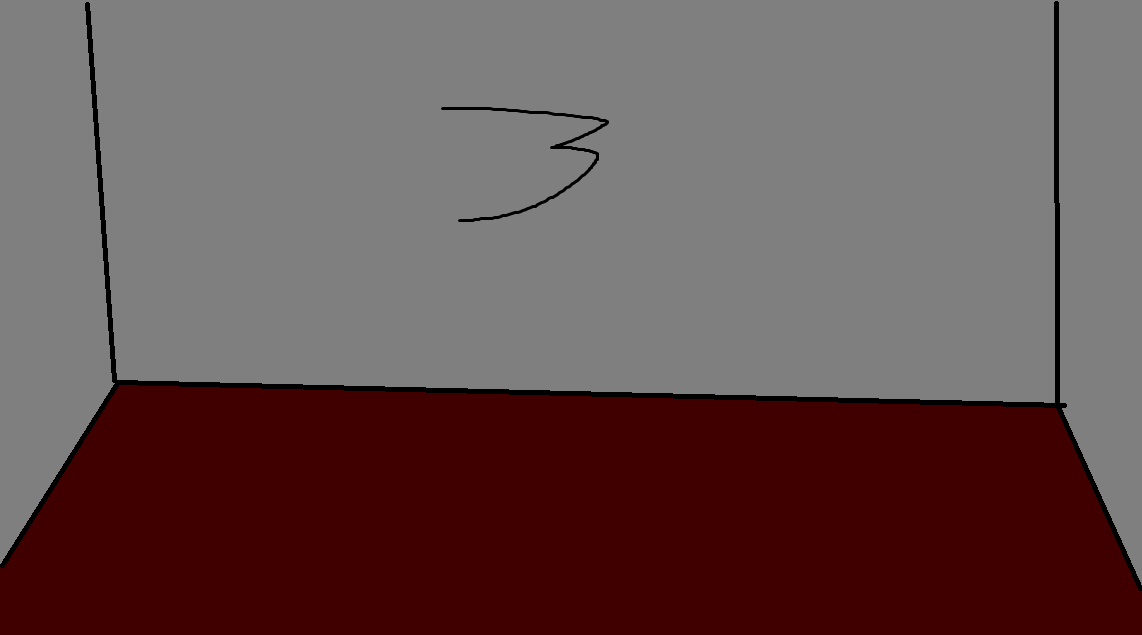
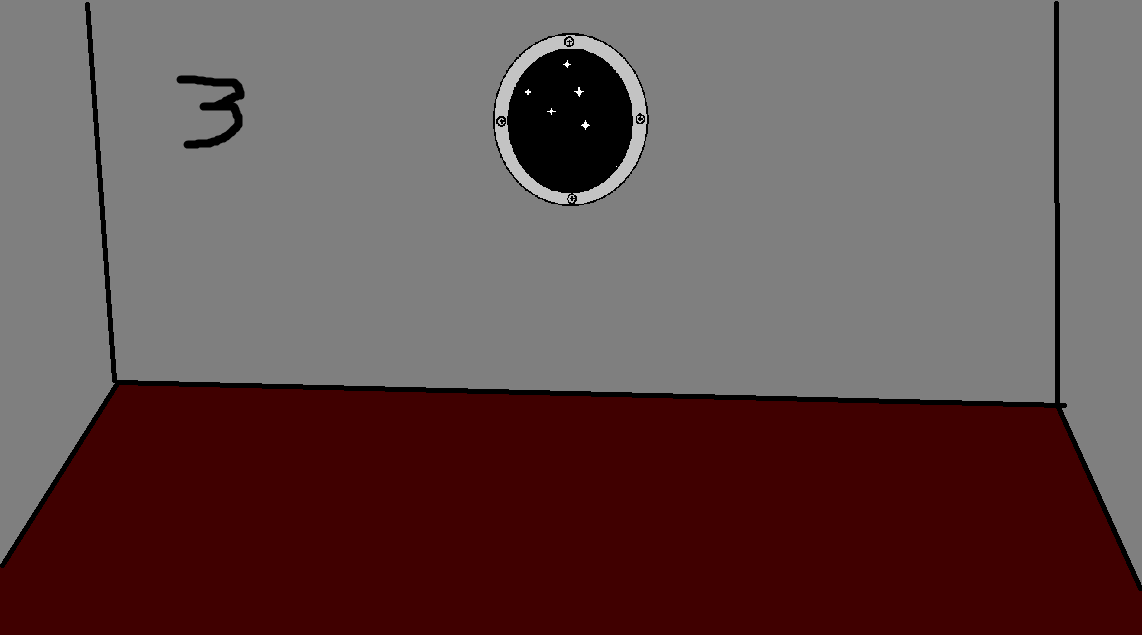
Added viewports, Invis buttons only clickable on correct wall
Added viewports to wall png files
button action listeners now have if statements so they don't get clicked while viewing other walls.

Changed region(s): [[0.3984, 0.0299, 0.5823, 0.3291], [0.1532, 0.1197, 0.2145, 0.2394], [0.3984, 0.3291, 0.4597, 0.3591]]

diff --git a/src/CIS350Project/ERoom.java b/src/CIS350Project/ERoom.java
@@ -28,7 +28,7 @@ public class ERoom extends JFrame implements ActionListener{
     private JMenuItem open;
     private JMenuItem exit;
 
-    private JButton turnRight, turnLeft, askForHint, pickNote, coldOne;
+    private JButton turnRight, turnLeft, askForHint, pickNote, coldOne, viewScreen, exitScreen;
 
     public static void main(String[] args) {
         ERoom gui = new ERoom();
@@ -79,6 +79,7 @@ public class ERoom extends JFrame implements ActionListener{
         panel.add(turnLeft);
         turnLeft.addActionListener(this);
 
+        //For wall one//
         pickNote = new JButton(".");
         pickNote.setBounds(405,325,60,60);
         panel.add(pickNote);
@@ -90,6 +91,19 @@ public class ERoom extends JFrame implements ActionListener{
         panel.add(coldOne);
         coldOne.setOpaque(false);
         coldOne.addActionListener(this);
+
+        viewScreen = new JButton("x");
+        viewScreen.setBounds(275, 120, 100, 100);
+        panel.add(viewScreen);
+        viewScreen.setOpaque(false);
+        viewScreen.addActionListener(this);
+
+        //for screen close up//
+        exitScreen = new JButton("x");
+        exitScreen.setBounds(1120, 10, 30, 30);
+        panel.add(exitScreen);
+        exitScreen.setOpaque(false);
+        exitScreen.addActionListener(this);
     }
 
 
@@ -129,16 +143,34 @@ public class ERoom extends JFrame implements ActionListener{
                 wall.redraw();
             }
             if (event.getSource() == pickNote) {
-                wall.setNote();
-                wall.redraw();
-                inv.setNoteInv();
-                inv.redrawInv();
+                if(wall.getVisWall()%4==1) {
+                    wall.setNote();
+                    wall.redraw();
+                    inv.setNoteInv();
+                    inv.redrawInv();
+                }
             }
             if (event.getSource() == coldOne) {
-                wall.setOne();
-                wall.redraw();
-                inv.setColdOneInv();
-                inv.redrawInv();
+                if(wall.getVisWall()%4==1) {
+                    wall.setOne();
+                    wall.redraw();
+                    inv.setColdOneInv();
+                    inv.redrawInv();
+                }
+            }
+
+            if (event.getSource() == viewScreen) {
+                if(wall.getVisWall()%4==1) {
+                    wall.setVisWall(-1);
+                    wall.redraw();
+                }
+            }
+
+            if (event.getSource() == exitScreen) {
+                if(wall.getVisWall()==-1) {
+                    wall.setVisWall(1);
+                    wall.redraw();
+                }
             }
         }
 //    }

diff --git a/src/CIS350Project/Wall.java b/src/CIS350Project/Wall.java
@@ -44,7 +44,10 @@ public class Wall extends JPanel {
 
         setBackground(Color.GRAY);
 
-        if(visWall % 4 == 1) {
+        if (visWall == -1) {
+            Image image = new ImageIcon("ScreenCloseUp.png").getImage();
+            g.drawImage(image, 0, 0, this);
+        }else if(visWall % 4 == 1) {
             Image image = new ImageIcon("placeholderwall.png").getImage();
             g.drawImage(image, 0, 0, this);
             if(note == true) {
